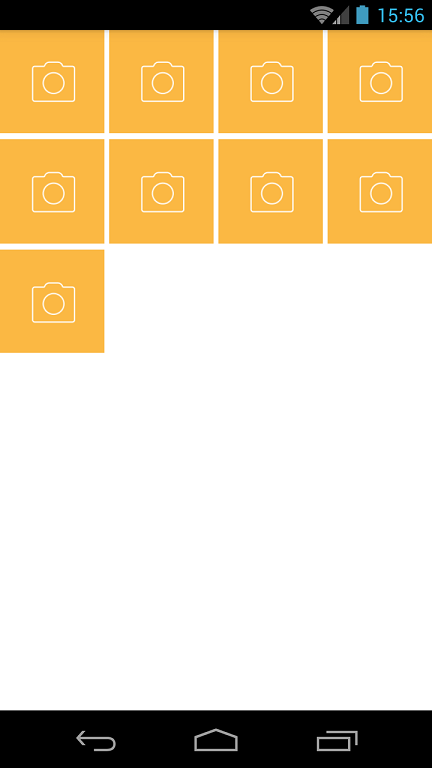
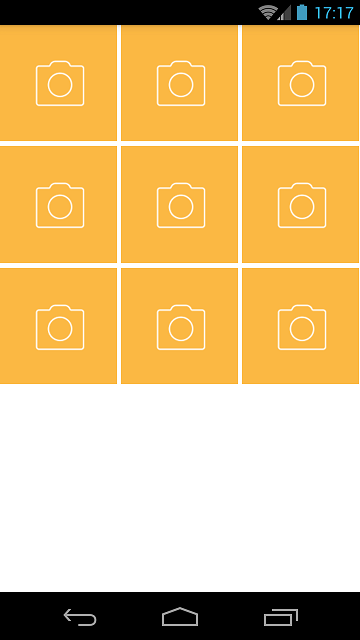
完善组件，加入最大item数量的配置项

diff --git a/library/src/main/java/com/zhqchen/ninegrid/NineGridImageView.java b/library/src/main/java/com/zhqchen/ninegrid/NineGridImageView.java
@@ -20,14 +20,16 @@ import java.util.List;
  * Created by zhqchen on 2017-01-05.
  */
 public class NineGridImageView extends LinearLayout {
-    private int COLUMN_DEFAULT = 3;
-    private int SPACING_H_DEFAULT = 10;
-    private int SPACING_V_DEFAULT = 10;
+    private final int MAX_ITEM_COUNT = 9;
+    private final int COLUMN_DEFAULT = 3;
+    private final int SPACING_H_DEFAULT = 10;
+    private final int SPACING_V_DEFAULT = 10;
 
-    private int mItemWidth;
-    private int mColumns = COLUMN_DEFAULT;
-    private int hSpacing = SPACING_H_DEFAULT;
-    private int vSpacing = SPACING_V_DEFAULT;
+    private int mItemWidth;//每个item的宽度
+    private int maxItems;//item的最大数量
+    private int mColumns;//列数
+    private int hSpacing;//水平间距
+    private int vSpacing;//垂直间距
 
     private DataSetObserver observer;
     private NineGridAdapter mAdapter;//由上次使用者传入，可自定义item
@@ -46,7 +48,8 @@ public class NineGridImageView extends LinearLayout {
             return;
         }
         TypedArray array = context.obtainStyledAttributes(attrs, R.styleable.NineGridIV);
-        mColumns = array.getInt(R.styleable.NineGridIV_numColumns, 0);
+        maxItems = array.getInt(R.styleable.NineGridIV_maxItems, MAX_ITEM_COUNT);
+        mColumns = array.getInt(R.styleable.NineGridIV_numColumns, COLUMN_DEFAULT);
         vSpacing = array.getDimensionPixelSize(R.styleable.NineGridIV_verticalSpacing, SPACING_V_DEFAULT);
         hSpacing = array.getDimensionPixelSize(R.styleable.NineGridIV_horizontalSpacing, SPACING_H_DEFAULT);
         array.recycle();
@@ -98,6 +101,10 @@ public class NineGridImageView extends LinearLayout {
         updateContentViews();
     }
 
+    public void setMaxItemCount(int itemCount) {
+        this.maxItems = itemCount;
+    }
+
     public void setColumns(int columns) {
         this.mColumns = columns;
     }
@@ -119,10 +126,13 @@ public class NineGridImageView extends LinearLayout {
     }
 
     private void updateContentViews() {
+        if(mColumns <= 0 || maxItems <= 0) {
+            throw new IllegalStateException("mColumns or maxItems can not <= 0");//配置异常
+        }
         if(mAdapter == null || mItemWidth <= 0) {
             return;
         }
-        int count = mAdapter.getCount();
+        int count = mAdapter.getCount() > maxItems ? maxItems : mAdapter.getCount();//限制最大展示数量
         int realRows = count / mColumns + (count % mColumns == 0 ? 0 : 1);
         LinkedList<LinearLayout> rowLayouts = new LinkedList<>();//行的父布局
         LinkedList<View> itemLayouts = new LinkedList<>();//item的父布局
@@ -187,7 +197,6 @@ public class NineGridImageView extends LinearLayout {
      */
     public static abstract class NineGridAdapter<T> extends BaseAdapter {
 
-        protected final int MAX_ITEM_SIZE = 9;
         protected Context context;
         protected List<T> itemDatas;
 
@@ -198,7 +207,7 @@ public class NineGridImageView extends LinearLayout {
 
         @Override
         public int getCount() {
-            return itemDatas.size() > MAX_ITEM_SIZE ? MAX_ITEM_SIZE: itemDatas.size();
+            return itemDatas.size();
         }
 
         @Override

diff --git a/app/src/main/java/com/zhqchen/ninegrid/sample/MainActivity.java b/app/src/main/java/com/zhqchen/ninegrid/sample/MainActivity.java
@@ -37,6 +37,9 @@ public class MainActivity extends AppCompatActivity {
                 R.mipmap.app_btn_camera_normal,
                 R.mipmap.app_btn_camera_normal,
                 R.mipmap.app_btn_camera_normal,
+                R.mipmap.app_btn_camera_normal,
+                R.mipmap.app_btn_camera_normal,
+                R.mipmap.app_btn_camera_normal,
                 R.mipmap.app_btn_camera_normal
         ));
         mAdapter = new MyGridAdapter(this, itemDatas);

diff --git a/README.md b/README.md
@@ -5,6 +5,7 @@
 
 ###配置项：
 ```
+    maxItems:最大item数量, 默认为9
     numColumns: 网格的列数，默认为3
     verticalSpacing: 垂直方向的网格间隔
     horizontalSpacing: 水平方向的网格间隔
@@ -18,7 +19,6 @@
             android:id="@+id/ngv_test"
             android:layout_width="match_parent"
             android:layout_height="wrap_content"
-            app:numColumns="4"
             app:verticalSpacing="4dp"
             app:horizontalSpacing="4dp"/>
 ~~~
